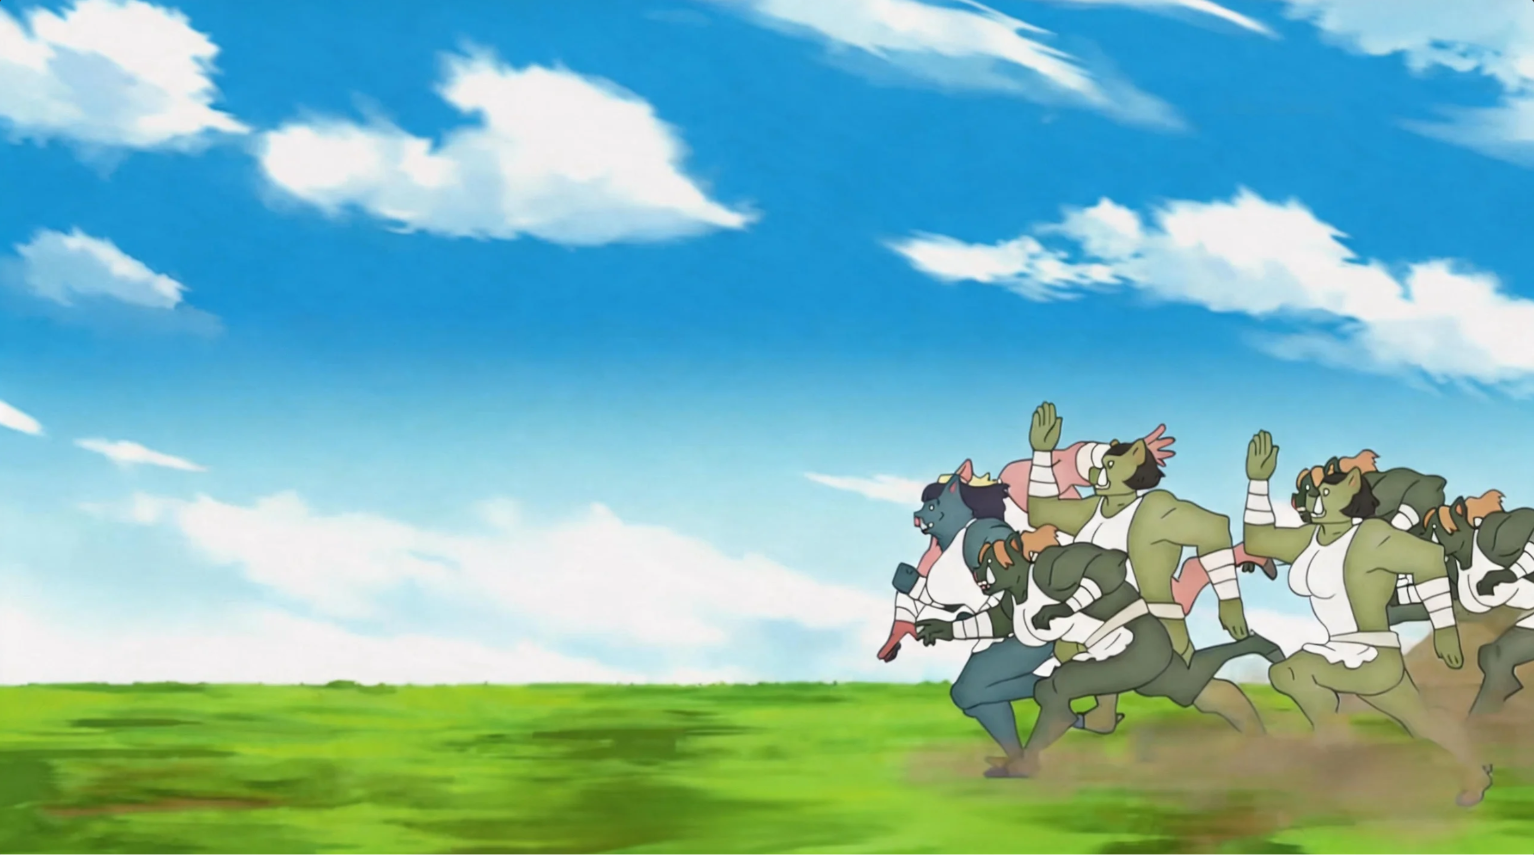
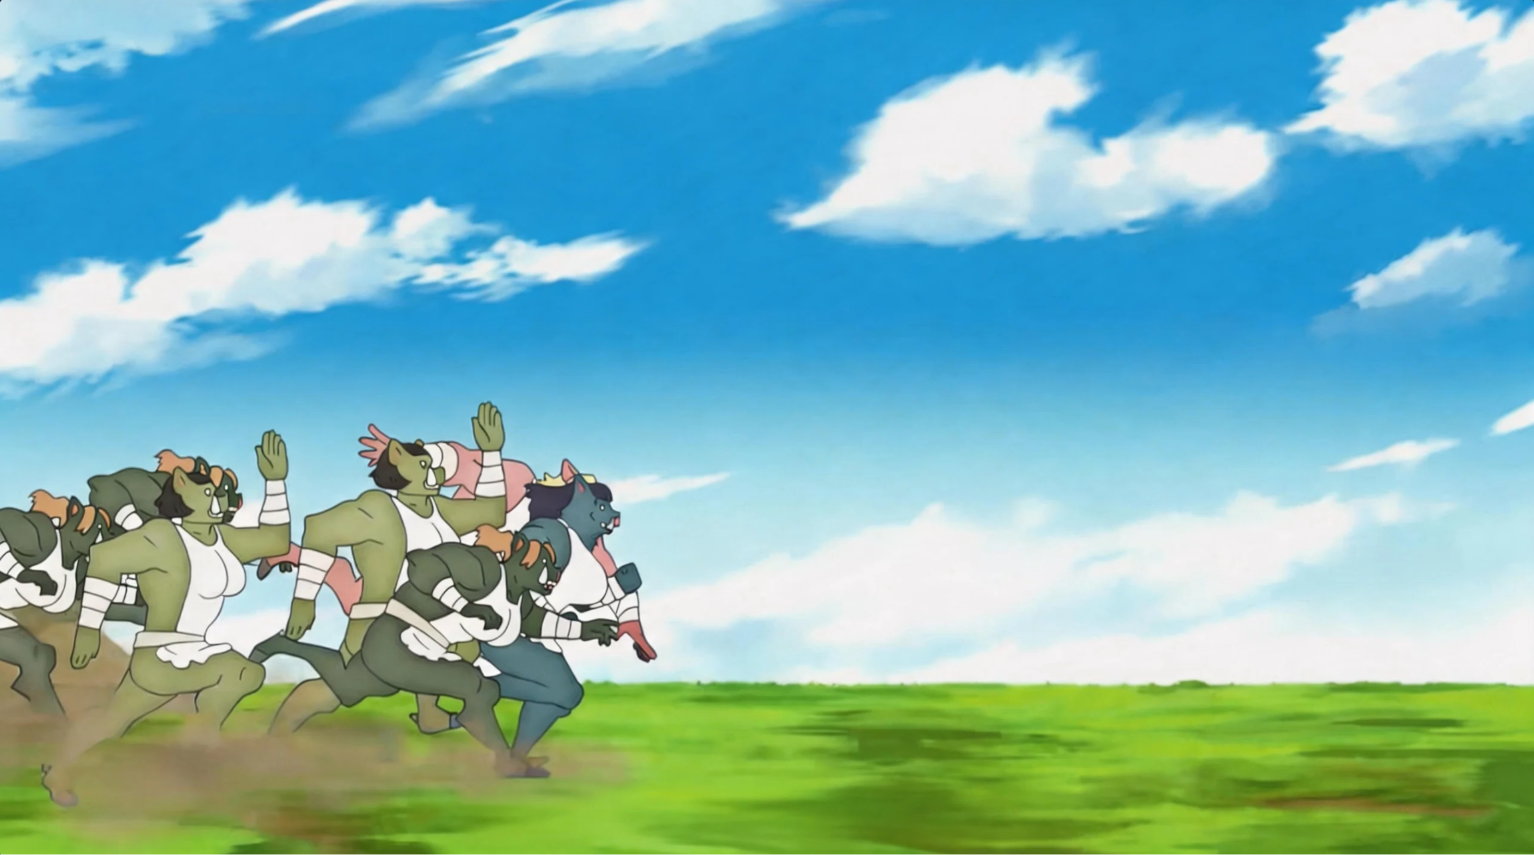
修好图了(大概)

diff --git a/rank.cpp b/rank.cpp
@@ -1,9 +1,7 @@
 #include "main.h"
 #include <windows.h>
 
-#define MAX 10
-
-IMAGE rankStyle, rank_mask;
+#define MAX 11  // 1 个表头 + 10 条记录
 
 // UTF-8 string → wstring（正确处理中文等多字节字符，跳过 BOM）
 wstring UTF8ToWide(const string& str) {
@@ -23,11 +21,6 @@ wstring UTF8ToWide(const string& str) {
 	return result;
 }
 
-void initRank() {
-	loadimage(&rankStyle, _T("public/rank.png"));
-	GenerateMask(&rankStyle, &rank_mask);
-}
-
 void readRank(vector<tuple<int, double>>& t) {
 	ifstream file;
 	file.open("rank.txt", ios::in);
@@ -37,13 +30,25 @@ void readRank(vector<tuple<int, double>>& t) {
 	}
 
 	string line;
-	int score;
-	double time;
 
 	while (getline(file, line)) {
+		int score = 0;
+		double time = 0.0;
 		stringstream string_stream(line);
-		string_stream >> score >> time;
-		t.push_back(tuple<int, double> {score, time});
+
+		string first;
+		string_stream >> first;
+		if (first.empty()) continue;
+		if (!isdigit(static_cast<unsigned char>(first[0])) && first[0] != '-') {
+			string_stream >> score >> time;
+		} else {
+			
+			score = stoi(first);
+			string_stream >> time;
+		}
+		if (!string_stream.fail()) {
+			t.push_back(tuple<int, double> {score, time});
+		}
 	}
 
 	file.close();
@@ -71,7 +76,9 @@ void writeRank(tuple<int, double>& element) {
 }
 
 void drawRank() {
-	initRank();
+	// 资源未加载时的保护
+	if (rankStyle.getwidth() <= 0) return;
+
 	cleardevice();
 	putimage(0, 0, &bg1);
 
@@ -90,7 +97,7 @@ void drawRank() {
 		putimage(x, y, &rankStyle, SRCPAINT);
 		settextcolor(BLACK);
 		
-		if (i < len+1) {
+		if (i <= len) {
 			int id_x = x + 45;
 			int score_x = x + 150;
 			int time_x = x + rankStyle.getwidth() - 80;
@@ -104,8 +111,8 @@ void drawRank() {
 			// string → wstring，适配 outtextxy
 			wstring id = to_wstring(i);
 			wstring score = to_wstring(std::get<0>(rank[i-1]));
-			TCHAR time_buf[32];
-			_stprintf_s(time_buf, _T("%.2f"), std::get<1>(rank[i-1]));
+			TCHAR time_buf[64];
+			_stprintf_s(time_buf, _countof(time_buf), _T("%.2f"), std::get<1>(rank[i-1]));
 			wstring time = time_buf;
 
 			

diff --git a/menu.cpp b/menu.cpp
@@ -37,6 +37,7 @@ void GenerateMask(IMAGE* src, IMAGE* mask) {
 }
 
 IMAGE bg1, bg2, button, arrow, button_mask, arrow_mask, black_bg;
+IMAGE rankStyle, rank_mask;
 
 
 // 初始化菜单资源
@@ -47,6 +48,11 @@ void InitResource() {
 	loadimage(&arrow, _T("public/arrow.png"));
 	loadimage(&black_bg, _T("public/black_bg.png"));
 
+	// 加载排行榜资源
+	loadimage(&rankStyle, _T("public/rank.png"));
+	if (rankStyle.getwidth() > 0) {
+		GenerateMask(&rankStyle, &rank_mask);
+	}
 
 	// 为按钮和箭头生成遮罩图
 	GenerateMask(&button, &button_mask);

diff --git a/menu.h b/menu.h
@@ -1,4 +1,4 @@
-#pragma once
+#pragma once
 #include "main.h"
 
 // ---- 菜单内部函数 ----
@@ -9,4 +9,4 @@ void DrawMenu(bool isSelect = false);
 extern IMAGE bg1, button, arrow;
 
 // ---- rank.cpp 函数 ----
-void rank();
+void drawRank();

diff --git a/main.h b/main.h
@@ -34,5 +34,8 @@ extern IMAGE bg2;
 extern IMAGE black_bg;
 extern IMAGE bg1;
 
+// ---- 排行榜资源（在 menu.cpp 中加载） ----
+extern IMAGE rankStyle, rank_mask;
+
 // ---- 游戏状态标志（菜单判断是否正在游戏中） ----
 extern bool g_inGame;